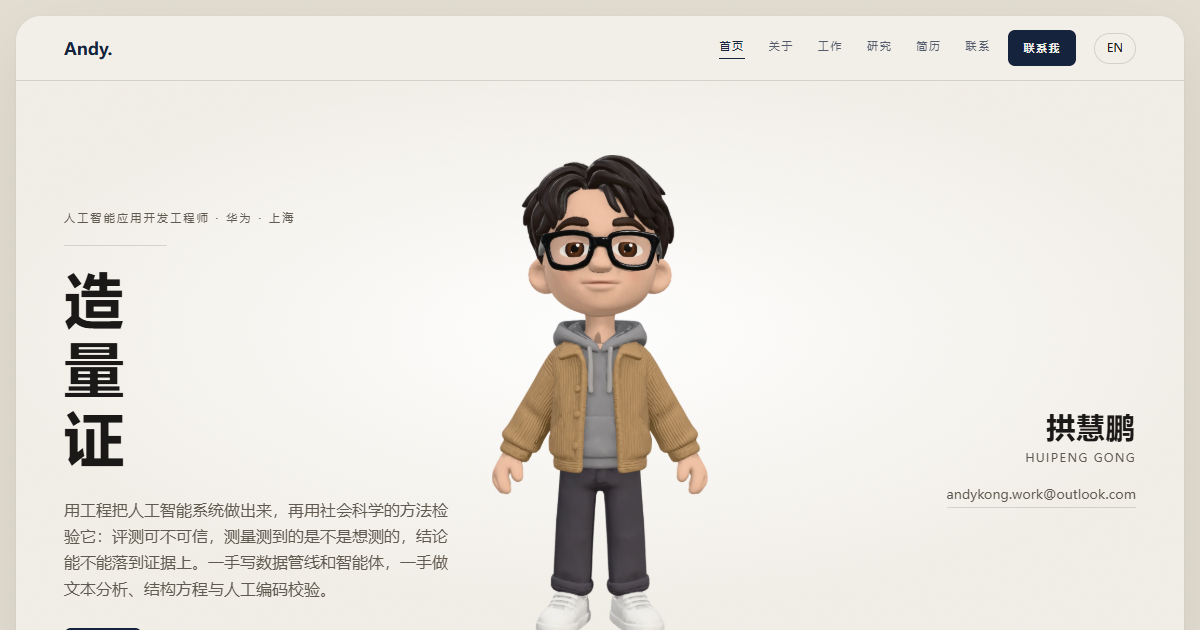
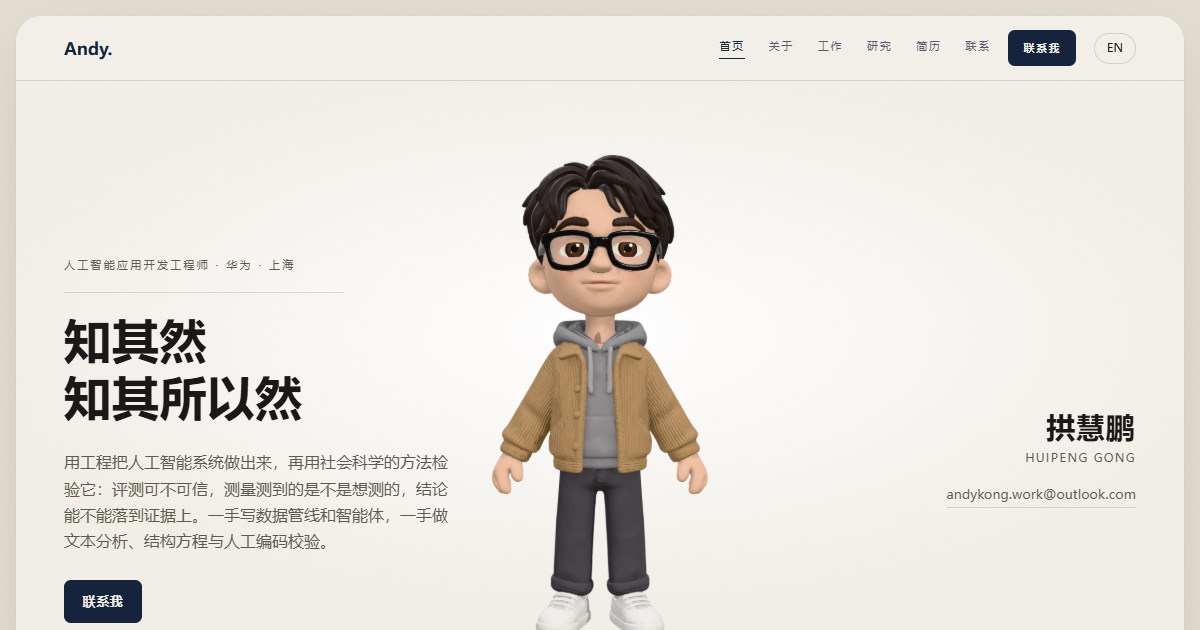
zh display: 知其然 / 知其所以然

Changed region(s): [[0.0308, 0.3921, 0.37, 1.0], [0.0617, 0.3317, 0.2467, 0.3619]]

diff --git a/src/content.ts b/src/content.ts
@@ -16,7 +16,8 @@ export type Lang = 'zh' | 'en'
 
 /** 展示字：中文用汉字，英文用拉丁展示字体。 */
 export const DISPLAY_LINES: Record<Lang, readonly string[]> = {
-  zh: ['造', '量', '证'],
+  // 2026-10-21 本人定：造/量/证 读着别扭，换成「知其然 / 知其所以然」——工程做出"然"，社科方法问"所以然"
+  zh: ['知其然', '知其所以然'],
   en: ['BUILD', 'MEASURE', 'PROVE'],
 }
 
@@ -66,20 +67,20 @@ export const content = {
     },
     about: {
       title: '我做的事',
-      eyebrow: '造 / 量 / 证',
+      eyebrow: '知其然，也知其所以然',
       pillars: [
         {
-          k: '造',
+          k: '01',
           title: '把系统做出来',
           text: '数据采集与管线、检索、智能体与本地部署。把模型接进真会跑的系统，而不是停在笔记本里。',
         },
         {
-          k: '量',
+          k: '02',
           title: '量它准不准',
           text: '评测集、基线对照、拒答与溯源。结论要能绑到证据上：证据不够的时候说"不知道"，这不是保守，是准确。',
         },
         {
-          k: '证',
+          k: '03',
           title: '说清为什么',
           text: '结构方程模型、中介机制检验、模型分类与人工编码的一致性。先问这个数字测的是什么，再谈它说明什么。',
         },

diff --git a/src/styles.css b/src/styles.css
@@ -356,8 +356,9 @@ a {
 .display.is-cjk {
   font-family: var(--font-cjk-display);
   font-weight: 800;
-  font-size: clamp(2.3rem, 5vw, 4.2rem);
-  line-height: 1.16;
+  /* 两行：知其然 / 知其所以然，第二行五个字，字号收一点免得碰到人像 */
+  font-size: clamp(2.1rem, 3.9vw, 3.6rem);
+  line-height: 1.22;
   letter-spacing: 0.02em;
   text-transform: none;
 }
@@ -1112,7 +1113,7 @@ a {
     font-size: clamp(2.4rem, 3vw, 5.4rem);
   }
   .display.is-cjk {
-    font-size: clamp(2.8rem, 3.5vw, 6rem);
+    font-size: clamp(2.6rem, 2.9vw, 5rem);
   }
   /* 大屏上人像会变宽，正文要收窄，否则末行会顶到袖子 */
   .hero-lead {
